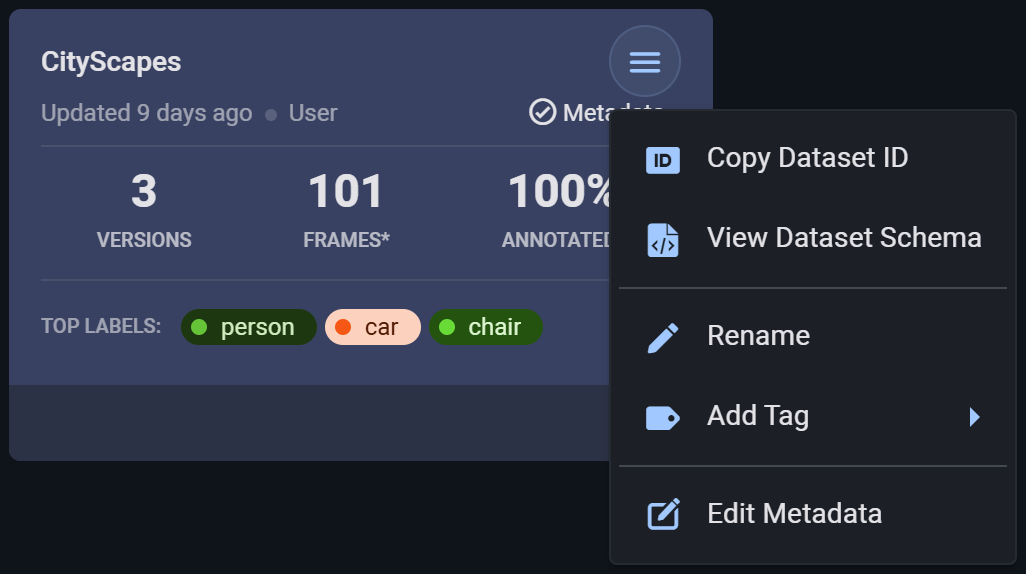
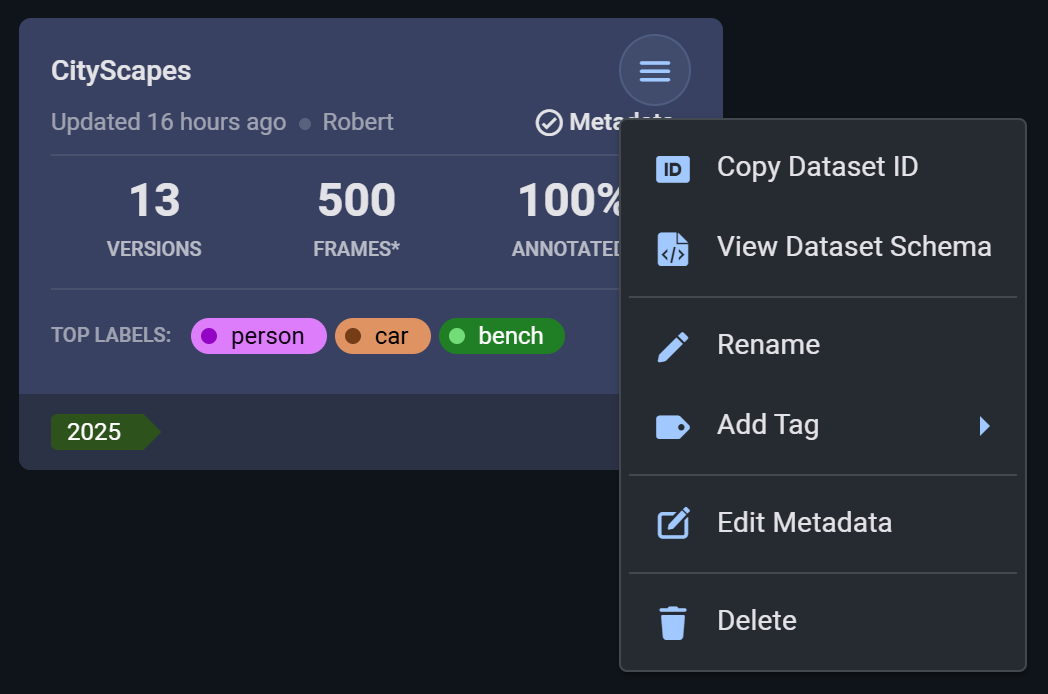
Enable Hyper-Dataset deletion

diff --git a/docs/hyperdatasets/webapp/webapp_datasets.md b/docs/hyperdatasets/webapp/webapp_datasets.md
@@ -89,6 +89,12 @@ of a dataset card to open its context menu and access dataset actions:
 * **Rename** - Change the dataset's name
 * **Add Tag** - Add label to the dataset to help easily classify groups of datasets.
 * **Edit Metadata** - Modify dataset-level metadata. This will open the metadata edit window, where you can edit the section
+* **Delete** - Delete the dataset and all its versions.  
+  <br/><br/>
+  :::warning
+  You cannot undo the deletion of a Hyper-Dataset.
+  :::
+
 
 ## Create New Hyper-Datasets
 
